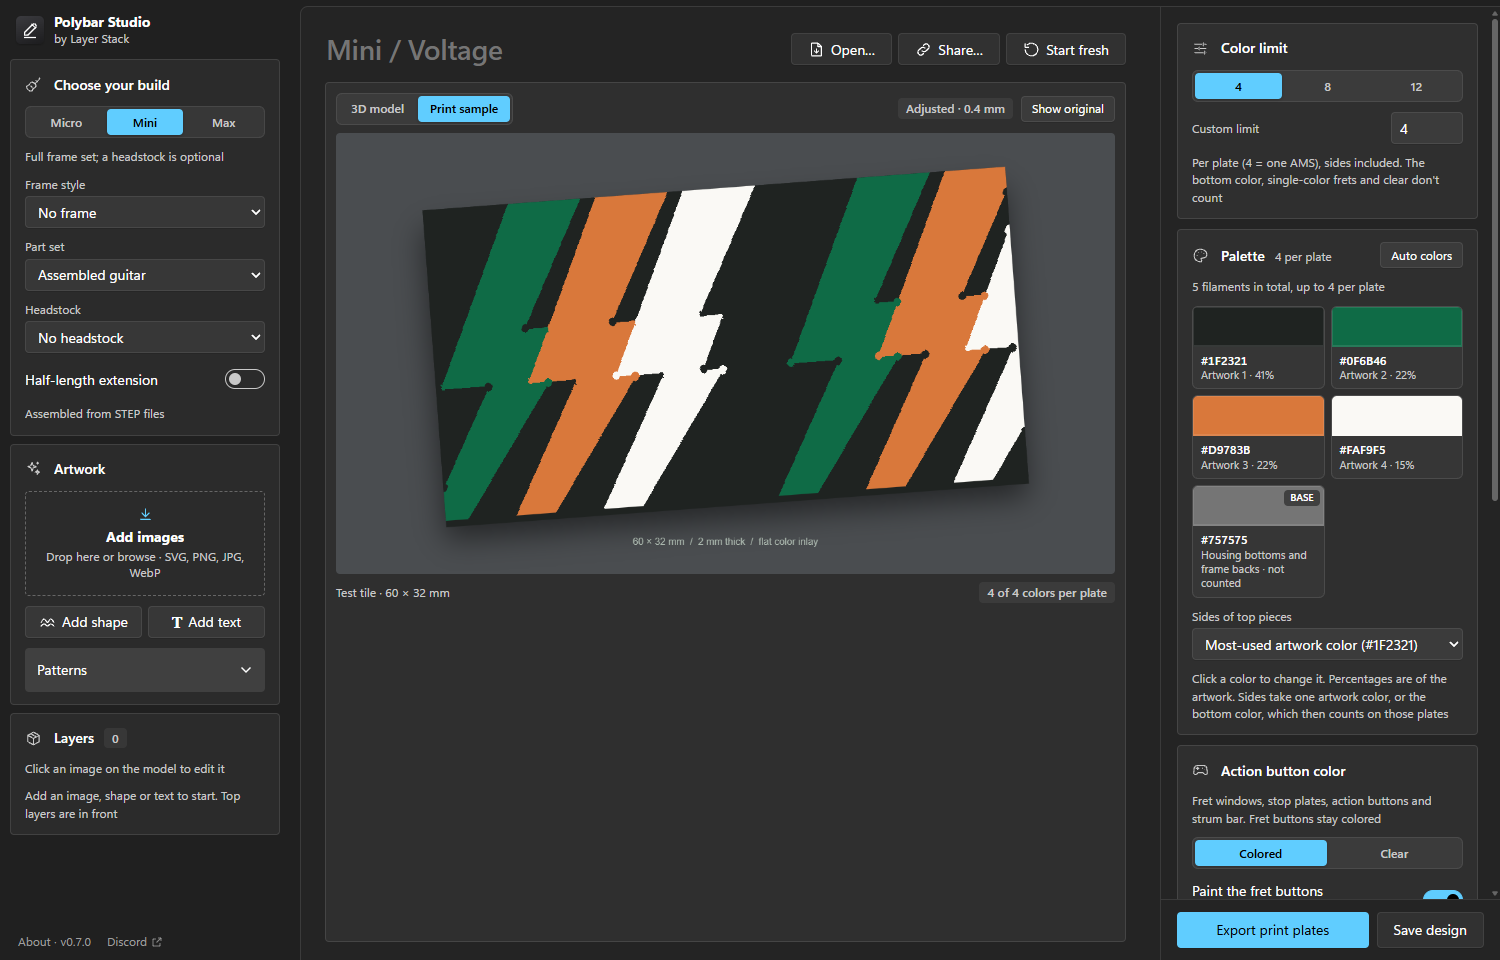
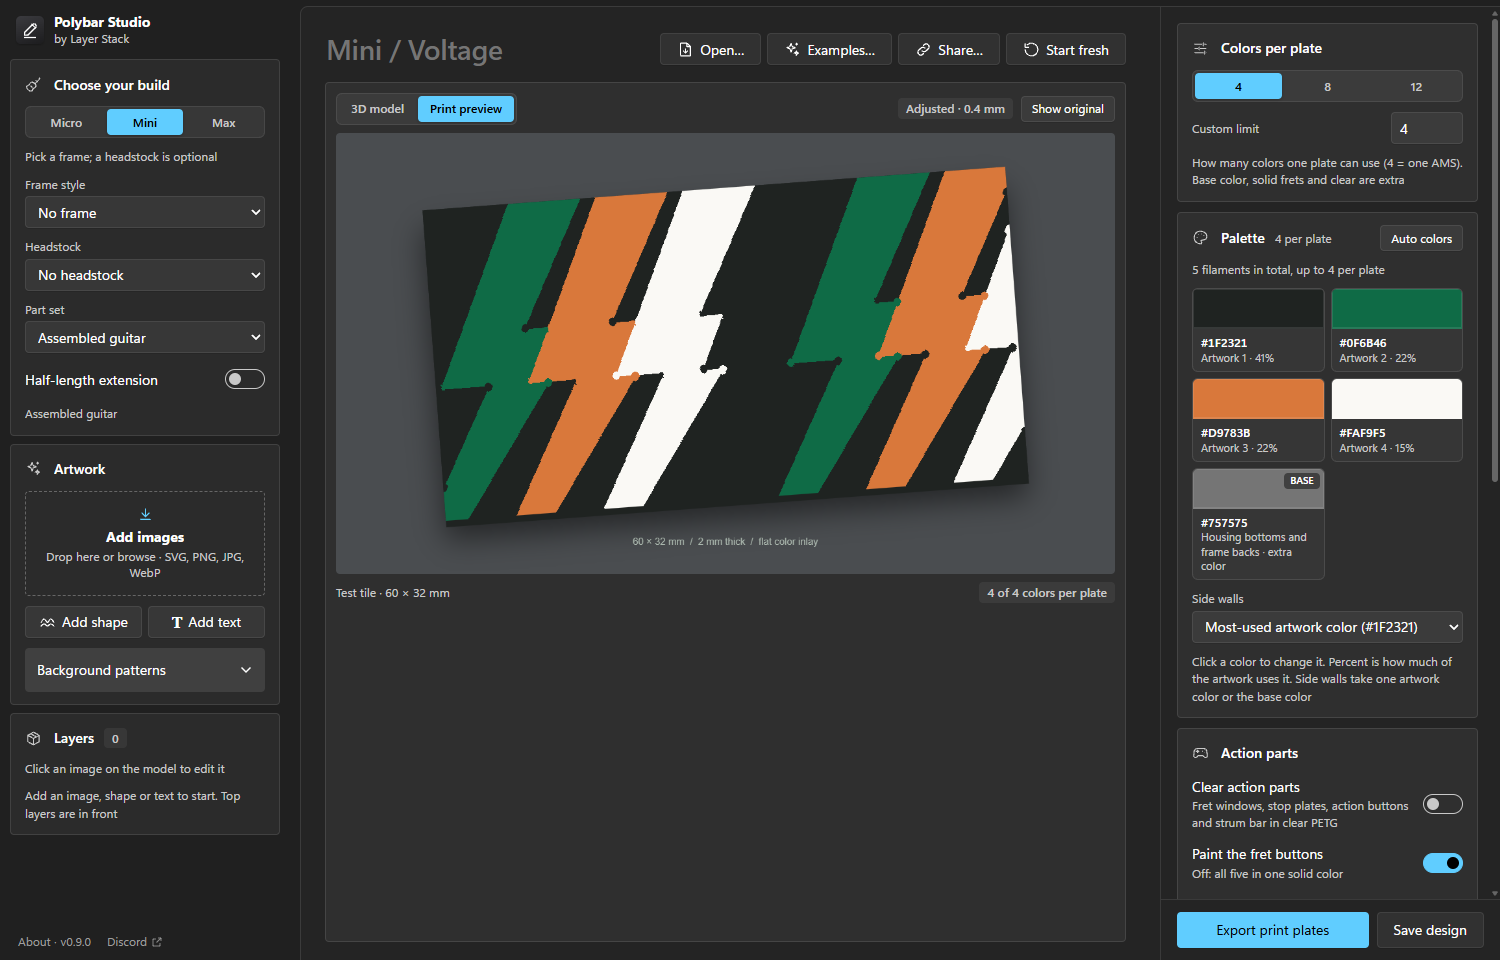
0.9.0: README (Examples, plates, progress bar), screenshots

diff --git a/README.md b/README.md
@@ -2,7 +2,7 @@
 
 Paint your Polybar Micro, Mini or Max, then get a print-ready Bambu Studio project for your Bambu Lab printer.
 
-[![Download for Windows](https://img.shields.io/badge/Download_for_Windows-Polybar_Studio_0.8.0-0078D4?style=for-the-badge&logo=windows)](https://github.com/3D-Printed-Controller-Systems/Polybar-Studio-Release/releases/latest/download/Polybar-Studio-Windows.exe)
+[![Download for Windows](https://img.shields.io/badge/Download_for_Windows-Polybar_Studio_0.9.0-0078D4?style=for-the-badge&logo=windows)](https://github.com/3D-Printed-Controller-Systems/Polybar-Studio-Release/releases/latest/download/Polybar-Studio-Windows.exe)
 
 Windows 10 or 11, 64-bit · about 50 MB · works offline · [all releases](https://github.com/3D-Printed-Controller-Systems/Polybar-Studio-Release/releases) · share your designs in the [Polybar Discord](https://discord.gg/wBRdgxEGhe)
 
@@ -37,6 +37,13 @@ Drag in the preview to rotate, scroll to zoom (it zooms toward the mouse pointer
 
 ### 2. Add your artwork
 
+- **Start from an example:** click **Examples…** (above the preview) for Sakura, Deep Space, Starry Swirl, Mountain River or Synthwave Sunset. Each one is drawn for the build and frame you chose (Mini or Max), with its main pieces on the body and headstock, in four Bambu spool colors and with every line wide enough to print. It replaces your artwork; everything else stays. Change any of its four layers or colors afterwards.
+
+<picture>
+  <source media="(prefers-color-scheme: dark)" srcset=".github/assets/examples-dark.png">
+  <img alt="The Examples sheet with five designs drawn for a Max with the Pioneer frame" src=".github/assets/examples-light.png">
+</picture>
+
 - Drop images onto **Add images**, or click it to browse. New images, shapes and text start on the largest open area of the body. SVG (up to 5 MB), PNG, JPG and WebP (up to 15 MB) work; you can stack up to 12 layers.
 - Click an image on the model to select it, then drag it into place. Clicking anywhere inside a selected image's box keeps it selected. **Size** and **Rotation** have sliders and number boxes you can type in; **Center**, **Fit** and **Done** are below them. Click away from the image to go back to rotating the model.
 - **Keyboard** (while an image is selected): arrows move it; **Ctrl + ↑ / ↓** or **+ / −** resize; **Ctrl + ← / →** or **[ ]** rotate; hold **Shift** for bigger steps; **Ctrl + D** duplicates; **Delete** removes; **Esc** deselects.
@@ -58,7 +65,7 @@ Drag in the preview to rotate, scroll to zoom (it zooms toward the mouse pointer
 
 **Clear action parts** (a switch) prints the fret windows, stop plates, action buttons and strum bar in clear PETG (PETG Translucent) instead of painting them with the artwork. Clear is an extra material on top of your colors per plate.
 
-**Paint the fret buttons** (on by default) paints the five frets with the artwork. Turn it off for all five in one solid color you pick; that color is an extra filament and doesn't count toward the limit. The five fret color chips always print in one solid color each (the artwork's color at the chip), so they look the same from every side.
+**Paint the fret buttons** (on by default) paints the five frets with the artwork. Turn it off for all five in one solid color: it starts in the color your artwork shows on the frets, and you can pick another. A color that isn't in your artwork is an extra filament and doesn't count toward the limit. The five fret color chips always print in one solid color each (the artwork color covering most of the chip), so they look the same from every side.
 
 <picture>
   <source media="(prefers-color-scheme: dark)" srcset=".github/assets/clear-dark.png">
@@ -99,7 +106,7 @@ Click **Export print plates**.
   - **Which pieces?** Everything, only the colored pieces, only the clear pieces, or pieces you pick from the list, grouped by Strum case, Fret case, Extensions, Frame and Headstock.
   - **Assembly parts** (on by default): the color plates, power slider and pivot pins (and on a Micro the PCB braces) in the base color.
   - **Color test tile** and **LED test tile** (off by default): add a 60 × 32 mm tile of your colors, or the LED test tile (see LED light above), to the bundle's `Test-tiles` folder.
-- Click **Prepare export**, wait for **Ready**, then **Save…** and choose where to put it.
+- Click **Prepare export**. A progress bar shows about how long is left; when it says **Ready**, click **Save…** and choose where to put it.
 
 <picture>
   <source media="(prefers-color-scheme: dark)" srcset=".github/assets/export-dark.png">
@@ -112,7 +119,7 @@ Click **Export print plates**.
 
 Unzip the bundle. It contains:
 
-- `Polybar-<printer>.3mf` (for example `Polybar-P2S.3mf`): open this in **Bambu Studio**. It's a complete project: plates are named (Housing Shells - Top, Transparent Input Parts, Assembly Parts, one plate per frame wing and faceplate…) and arranged, matching parts are grouped (the five windows are one object), every piece is turned the way it prints (show side down on the textured plate), clear pieces are on their own plates, and each plate uses at most four colors with its prime-tower corner kept free. Press **A** (Arrange) if you want Bambu to re-arrange a plate.
+- `Polybar-<printer>.3mf` (for example `Polybar-P2S.3mf`): open this in **Bambu Studio**. It's a complete project: plates are named (Housing Shells - Top, Transparent Input Parts, Input & Assembly Parts, one plate per frame wing and faceplate…) and arranged, matching parts are grouped (the five windows are one object), every piece is turned the way it prints (show side down on the textured plate), and each plate uses at most four colors with its prime-tower corner kept free. With clear action parts, the fret inserts print on the clear parts' plate. With painted action parts, the fret windows get a plate of their own (tall, thin parts print better without others wobbling around them), and the stop plates, fret inserts, pivot pins and headstock dowel share a **Small Parts** plate. The strum bar prints with slim tree supports; nothing else needs supports. Press **A** (Arrange) if you want Bambu to re-arrange a plate.
 - `Individual-plates/`: one file per plate, for OrcaSlicer, PrusaSlicer or printing one plate at a time.
 - `Plate-manifest.json` and `README.txt`: what's on each plate.
 
@@ -137,6 +144,8 @@ In the slicer, pick your actual filament profiles, check that each color goes to
 ## Releases
 
 Each release lists the installer's SHA-256 and the [Development](https://github.com/3D-Printed-Controller-Systems/Polybar-Studio-Development) commit it was built from.
+
+**0.9.0**: based on the team's changelog: **Examples…** (five designs drawn for your Mini or Max build); unpainted frets start in your artwork's color instead of black; fret chips take the color covering most of them (a chip could turn black when you added a headstock); a progress bar with the time left while exporting; new plates (fret windows alone, a Small Parts plate, fret inserts with the clear parts); slim tree supports on the strum bar.
 
 **0.8.0**: based on team feedback: a simpler Export dialog (Advanced fold-out, pieces grouped by section, test tiles only when you add them); fixes "Paint references missing filament" on export; Part set moved under Headstock; Frame only shows just the frame; Clear action parts is a switch; fret color chips print solid; auto colors skip blended edge shades; the color picker no longer jumps; resize cursors point the right way; clearer labels; the legacy Enforcer frame was removed.
 
